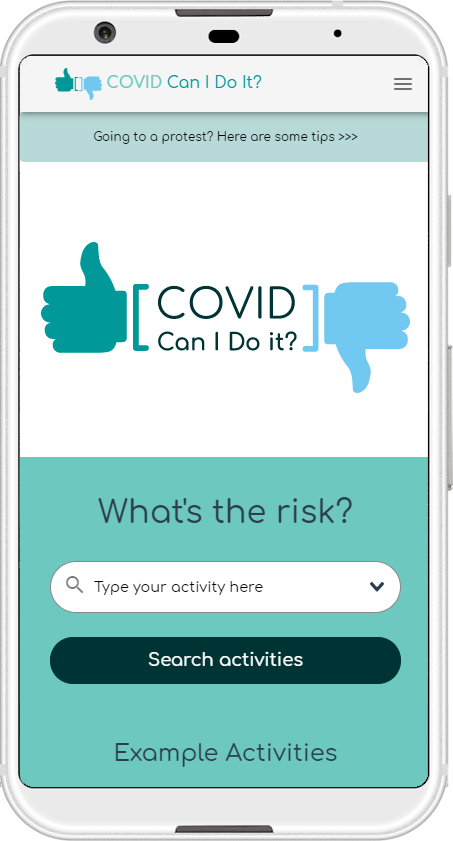
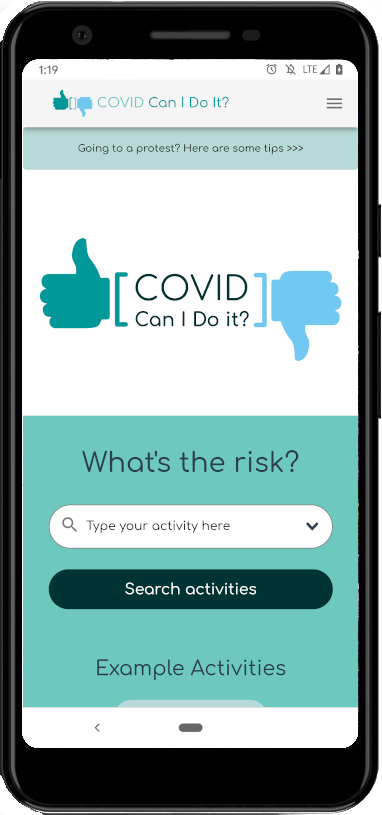
fixes for responsiveness

diff --git a/src/components/MobileFirst/index.js b/src/components/MobileFirst/index.js
@@ -3,6 +3,7 @@ import {Grid} from '@material-ui/core';
 import VizSensor from 'react-visibility-sensor';
 import Fade from '@material-ui/core/Fade';
 import Grow from '@material-ui/core/Grow';
+import './style.css';
 
 const styles = {
   container: {
@@ -16,7 +17,6 @@ const styles = {
     color: "white"
   },
   mobiles: {
-    width: "20%",
   }
 }
 
@@ -30,14 +30,14 @@ function MobileFirst() {
         <VizSensor onChange={(isVisible) => setShowMobiles(isVisible)}>
           <Grow in={showMobiles} timeout={1000}>
             <Fade in={showMobiles} timeout={1000}>
-              <img style={styles.mobiles} src="./assets/pixel2_ccidi.png" alt="covid can i do it, on mobile"></img>
+              <img className="mobile" style={styles.mobiles} src="./assets/pixel2_ccidi.png" alt="covid can i do it, on mobile"></img>
             </Fade>
           </Grow>
         </VizSensor>
         <VizSensor onChange={(isVisible) => setShowMobiles(isVisible)}>
           <Grow in={showMobiles} timeout={1000}>
             <Fade in={showMobiles} timeout={1000}>
-              <img style={styles.mobiles} src="./assets/pixel2_sttl.png" alt="skip to the loo, on mobile"></img>
+              <img className="mobile" style={styles.mobiles} src="./assets/pixel2_sttl.png" alt="skip to the loo, on mobile"></img>
             </Fade>
           </Grow>
         </VizSensor>

diff --git a/src/components/MobileFirst/style.css b/src/components/MobileFirst/style.css
@@ -1,0 +1,23 @@
+@media only screen and (max-width: 600px) {
+  .mobile {
+    width: 50%;
+  }
+}
+
+@media only screen and (min-width: 600px) and (max-width: 960px) {
+  .mobile {
+    width: 40%;
+  }
+}
+
+@media only screen and (min-width: 960px) and (max-width: 1280px) {
+  .mobile {
+    width: 30%;
+  }
+}
+
+@media only screen and (min-width: 1280px) {
+  .mobile {
+    width: 20%;
+  }
+}
